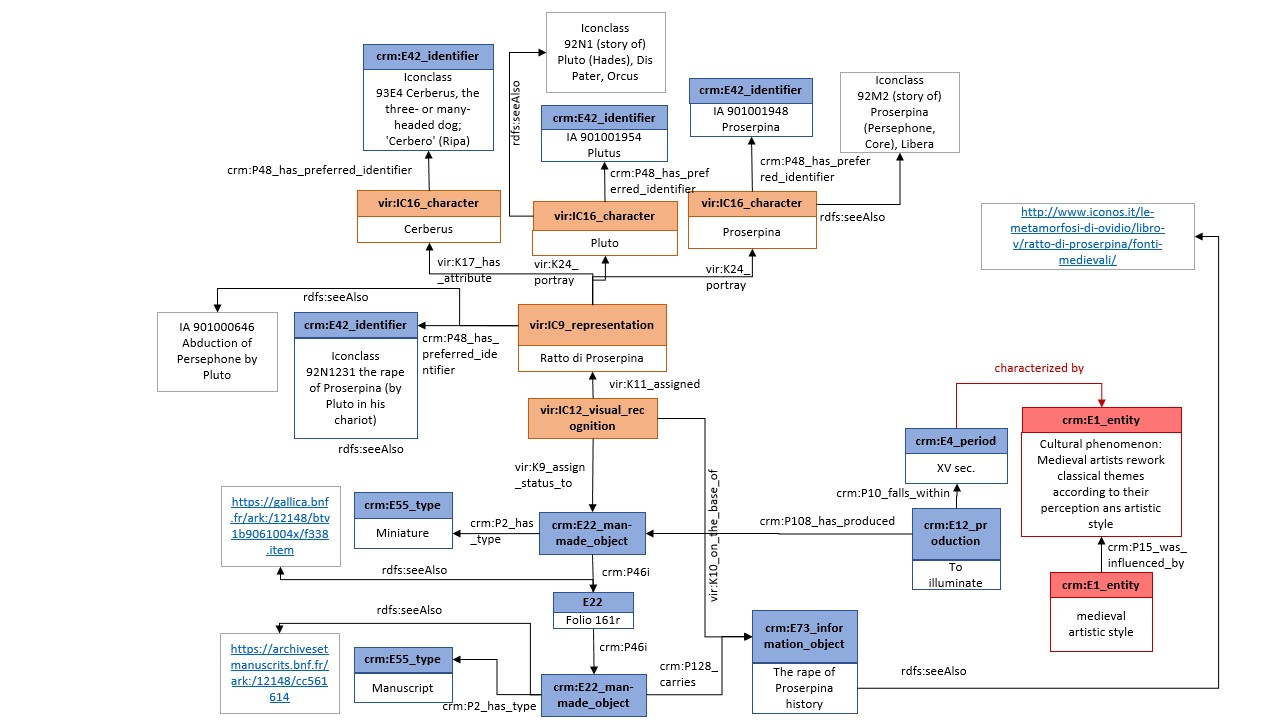
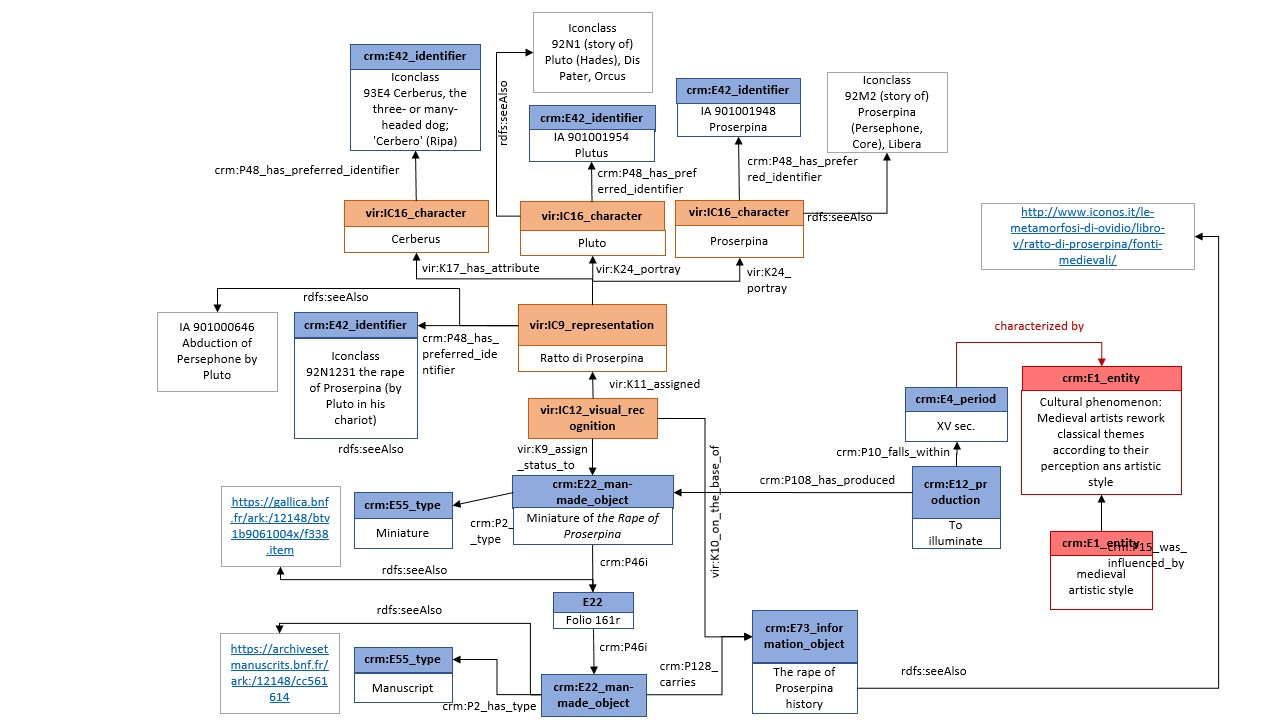
Formal representation images updating updating

diff --git a/sito/index.html b/sito/index.html
@@ -352,6 +352,7 @@
 									<tr><td style="background-color:#a9d18e">cito</td> <td>  <a href="http://purl.org/spar/cito/"> http://purl.org/spar/cito/  </a> </td> </tr>
 									<tr><td style="background-color:#a9d18e">pro </td> <td>  <a href="http://purl.org/spar/pro/"> http://purl.org/spar/pro/ </a> </td> </tr>
 									<tr><td style="background-color:#ff7575">icon </td> <td> not modelled yet</td> </tr>
+									<tr><td style="background-color:#ffffff; border-color:#969696">prefix </td> <td> external links</td> </tr>
 								</table>
 							</div>
 						</div>
@@ -419,6 +420,7 @@
 							</div>
 
 							<p>Finally, the iconological interpretation had been expressed by linking the two paintings taken into account (Vermeer’s woman holding a balance and Allegory of Faith) to the cultural phenomenon recognized by means of two instances of “iconological recognition”, an hypothetical model for a class that could represent iconological and iconographical interpretations not described by current ontologies. Since it’s on the basis of the recognition of the phenomenon in Allegory of Faith that its presence in the other painting it’s supposed, it’s considered worthwhile to express this dependence by means of the relation cito:obtainsBackgroundFrom. </p>
+							<p>This representation can be further used for deeper meaning inferences: both the representations present the same attribute (vir:IC10_attribute “home interior”)  and the same level 3 concept (crm:E28_conceptual_object “catholic theme depicted in home interior”) cited as evidence of the two iconological recognition. Thus, it’s possible to infer that if a painting belonging to the Dutch Golden Age has both these instances annotated, the painting may be related to the cultural phenomenon individuated. </p>
 							</div>
 						</div>
 						<ul class="actions">
@@ -496,8 +498,9 @@
 									<p> Fourth level interpretation </p>
 							</div>
 
-							<p>The fourth meaning that recognises the painting as one of the examples of the tradition of depicting Venus in the epithalamic context is expressed in the same way as case 1 (chart 5).
+							<p>The fourth meaning that recognises the painting as one of the examples of the tradition of depicting Venus in the epithalamic context is expressed in the same way as case 1 (chart 5). Thus, if representation depicting venus is associated to a Wedding wish concept, it’s possible to infer that it belongs to the cultural phenomenon of committing epithalamic paintings as wedding wish. 
 							</p>
+
 							</div>
 						</div>
 						<ul class="actions">
